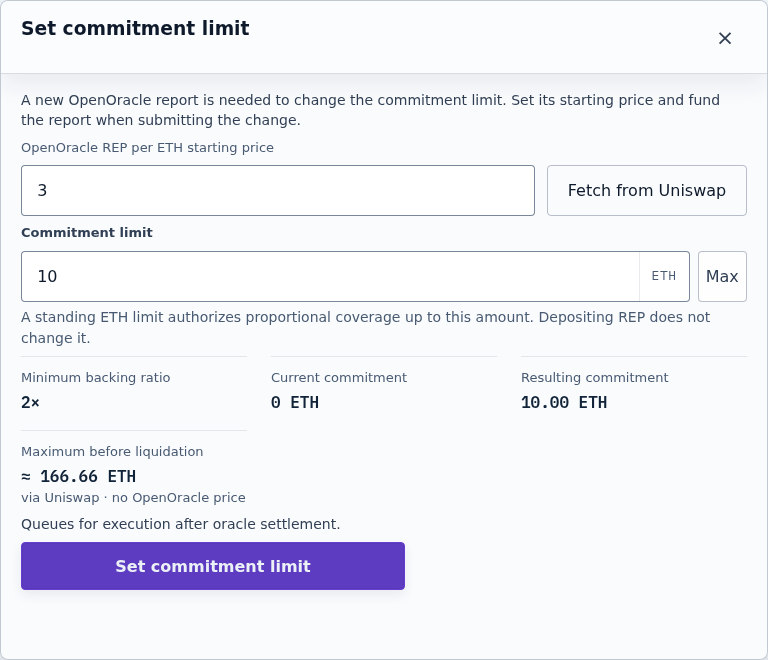
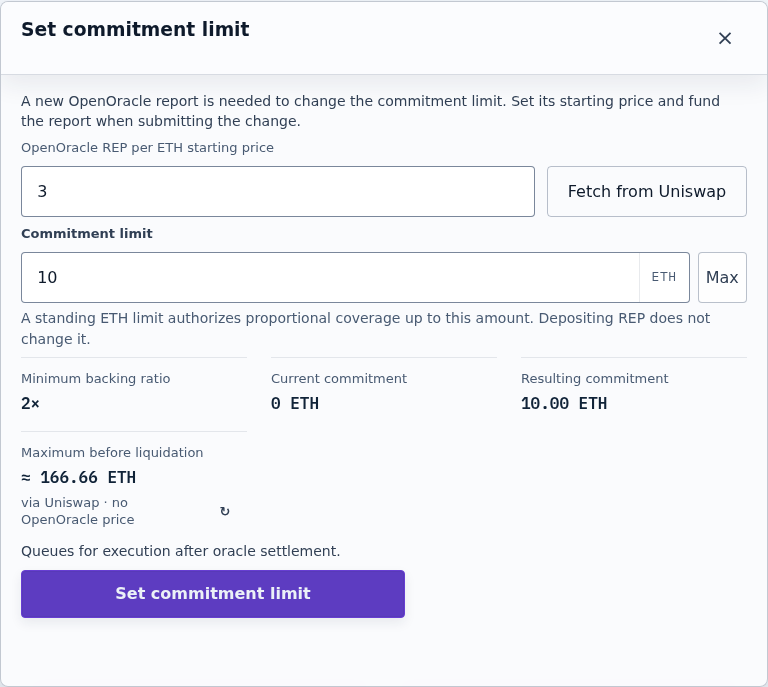
Refresh documentation screenshots after main synchronization

diff --git a/docs/tutorials/statoblast-first-pool.html b/docs/tutorials/statoblast-first-pool.html
@@ -60,7 +60,7 @@
 					<li>Select <strong>Queue commitment limit</strong> and confirm that transaction. It funds a new price report and stages your change; the vault shows it as a staged operation.</li>
 				</ol>
 				<figure class="screenshot" id="fig-statoblast-set-commitment" aria-labelledby="fig-statoblast-set-commitment-caption">
-					<a class="screenshot-link" href="../assets/screenshots/statoblast/set-commitment.png"><img width="768" height="660" src="../assets/screenshots/statoblast/set-commitment.png" alt="The Set commitment limit dialog with a starting price of 3 REP per ETH, a 10 ETH commitment limit, minimum backing ratio 2×, current commitment 0 ETH, resulting commitment 10.00 ETH, and the note Queues for execution after oracle settlement." loading="lazy" /></a>
+					<a class="screenshot-link" href="../assets/screenshots/statoblast/set-commitment.png"><img width="768" height="687" src="../assets/screenshots/statoblast/set-commitment.png" alt="The Set commitment limit dialog with a starting price of 3 REP per ETH, a 10 ETH commitment limit, minimum backing ratio 2×, current commitment 0 ETH, resulting commitment 10.00 ETH, and the note Queues for execution after oracle settlement." loading="lazy" /></a>
 					<figcaption id="fig-statoblast-set-commitment-caption"><span class="figure-label">A staged commitment.</span> At 3 REP per ETH and a 2× backing ratio, 1,000 REP backs about 166 ETH, so 10 ETH leaves the vault healthy.</figcaption>
 				</figure>
 			</section>
